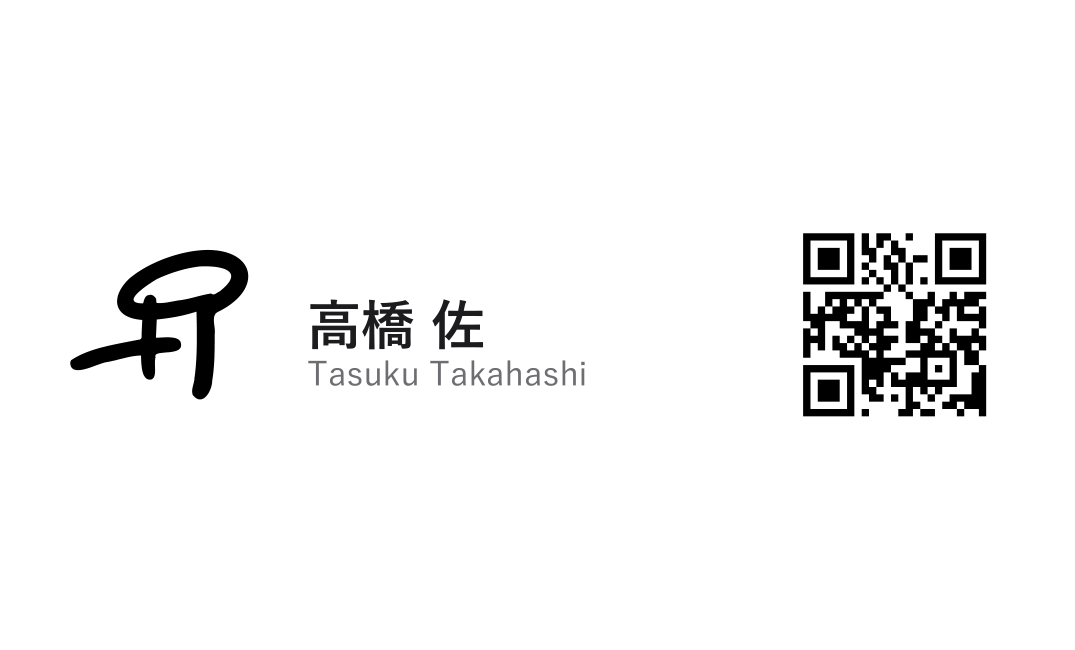
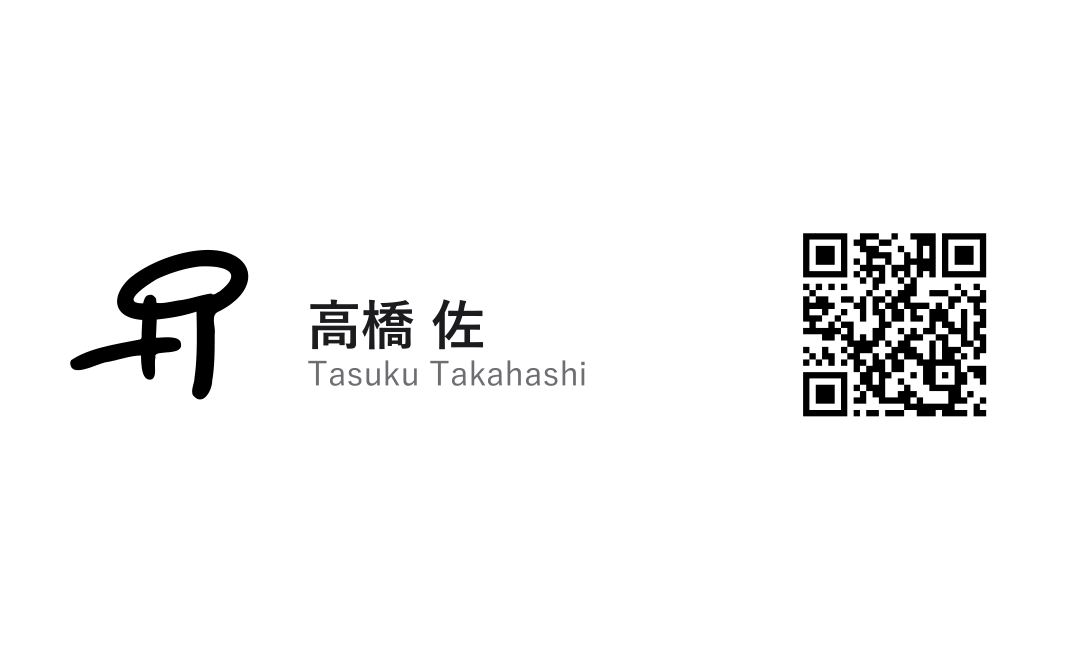
名刺ページの住所を www.tas9.net から takahashi.tas9.net へ変更
www の証明書の更新申請が www＋apex の2つ組のまま止まり、無料の範囲で消せないため（本人判断で住所を変更）。
CNAME・index.html（canonical/OGP/Android の連絡先）・tas9.vcf・印刷物（QR シール・ロック画面用 QR・名刺・OGP）を新しい住所で作り直し。
QR シールは URL が長くなって QR の目が増えたため、枠に収まるようマス目の大きさを自動で決めるよう修正。

Changed region(s): [[0.7367, 0.3385, 0.9209, 0.6462]]

diff --git a/index.html b/index.html
@@ -8,9 +8,9 @@
 <meta property="og:title" content="+9（たすく）">
 <meta property="og:description" content="モーションデザイナー・AIナレッジデザイナー・専門学校講師">
 <meta property="og:type" content="website">
-<meta property="og:url" content="https://www.tas9.net/">
-<link rel="canonical" href="https://www.tas9.net/">
-<meta property="og:image" content="https://www.tas9.net/og-image.png">
+<meta property="og:url" content="https://takahashi.tas9.net/">
+<link rel="canonical" href="https://takahashi.tas9.net/">
+<meta property="og:image" content="https://takahashi.tas9.net/og-image.png">
 <meta property="og:image:width" content="1200">
 <meta property="og:image:height" content="630">
 <meta name="twitter:card" content="summary_large_image">
@@ -314,11 +314,11 @@ p.para{margin-top:10px}
     company: '+9',
     job_title: 'モーションデザイナー / AIナレッジデザイナー / 専門学校講師',
     email: 'contact@tas9.net',
-    notes: 'https://www.tas9.net/ — Motion Designer / AI Knowledge Designer / Lecturer'
+    notes: 'https://takahashi.tas9.net/ — Motion Designer / AI Knowledge Designer / Lecturer'
   };
   var url = 'intent:#Intent;action=android.intent.action.INSERT_OR_EDIT;type=vnd.android.cursor.item/contact';
   for (var key in fields) url += ';S.' + key + '=' + encodeURIComponent(fields[key]);
-  url += ';S.browser_fallback_url=' + encodeURIComponent('https://www.tas9.net/tas9.vcf') + ';end';
+  url += ';S.browser_fallback_url=' + encodeURIComponent('https://takahashi.tas9.net/tas9.vcf') + ';end';
   a.setAttribute('href', url);
 })();
 </script>

diff --git a/print/make_label.py b/print/make_label.py
@@ -1,15 +1,15 @@
 """ガジェット裏の QR シール（34×34mm・300dpi）と、ロック画面用の大きい QR・型押し用 SVG を作る。
 実行: py print/make_label.py（このフォルダ直下から）。必要: qrcode[pil]。
-URL は名刺ページの正式アドレス（www）。
+URL は名刺ページの正式アドレス（takahashi.tas9.net・2026-10-17 に www から変更）。
 """
 from pathlib import Path
 
 import qrcode
-from PIL import Image, ImageDraw, ImageFont
+from PIL import Image
 from qrcode.image.svg import SvgPathImage
 
 HERE = Path(__file__).resolve().parent
-URL = "https://www.tas9.net/"
+URL = "https://takahashi.tas9.net/"
 DPI = 300
 MM = DPI / 25.4
 
@@ -23,14 +23,12 @@ def make(box, border):
 
 def main() -> None:
     size = round(34 * MM)  # 402px
-    q = make(13, 3)
+    # QR だけを枠いっぱいに置く（URL が長くなって QR の目が増えても、余白ごと 34mm に収まるようマス目の大きさを決める）
+    modules = make(1, 3).modules_count
+    q = make(size // (modules + 6), 3)
     img = q.make_image(fill_color="black", back_color="white").convert("RGB")
     label = Image.new("RGB", (size, size), "white")
-    label.paste(img, ((size - img.width) // 2, 6))
-    d = ImageDraw.Draw(label)
-    font = ImageFont.truetype("C:/Windows/Fonts/arial.ttf", 26)
-    text = "www.tas9.net"
-    d.text(((size - d.textlength(text, font=font)) / 2, img.height + 6), text, fill="black", font=font)
+    label.paste(img, ((size - img.width) // 2, (size - img.height) // 2))
     label.save(HERE / "label_34mm_300dpi.png", dpi=(DPI, DPI))
     print("label", label.size, "modules", q.modules_count)
     make(48, 4).make_image(fill_color="black", back_color="white").convert("RGB").save(HERE / "qr_1000.png")

diff --git a/print/make_icons.py b/print/make_icons.py
@@ -54,7 +54,7 @@ def og_image() -> None:
     d.add(String(x, 372, "高橋 佐", fontName="YuGothB", fontSize=72, fillColor=INK))
     d.add(String(x, 322, "たかはし たすく / Tasuku Takahashi", fontName="YuGothM", fontSize=26, fillColor=SUB))
     d.add(String(x, 250, "モーションデザイナー / AIナレッジデザイナー / 専門学校講師", fontName="YuGothM", fontSize=28, fillColor=INK))
-    d.add(String(x, 205, "www.tas9.net", fontName="YuGothM", fontSize=24, fillColor=SUB))
+    d.add(String(x, 205, "takahashi.tas9.net", fontName="YuGothM", fontSize=24, fillColor=SUB))
     lg = svg2rlg(str(ROOT / "logo.svg"))
     s2 = 120 / lg.height
     lg.scale(s2, s2)

diff --git a/print/make_card.py b/print/make_card.py
@@ -21,7 +21,7 @@ from reportlab.pdfgen import canvas
 from svglib.svglib import svg2rlg
 
 HERE = Path(__file__).resolve().parent
-URL = "https://www.tas9.net/"
+URL = "https://takahashi.tas9.net/"
 INK = HexColor("#1d1d1f")
 SUB = HexColor("#6e6e73")
 CARD_W, CARD_H = 91 * mm, 55 * mm
